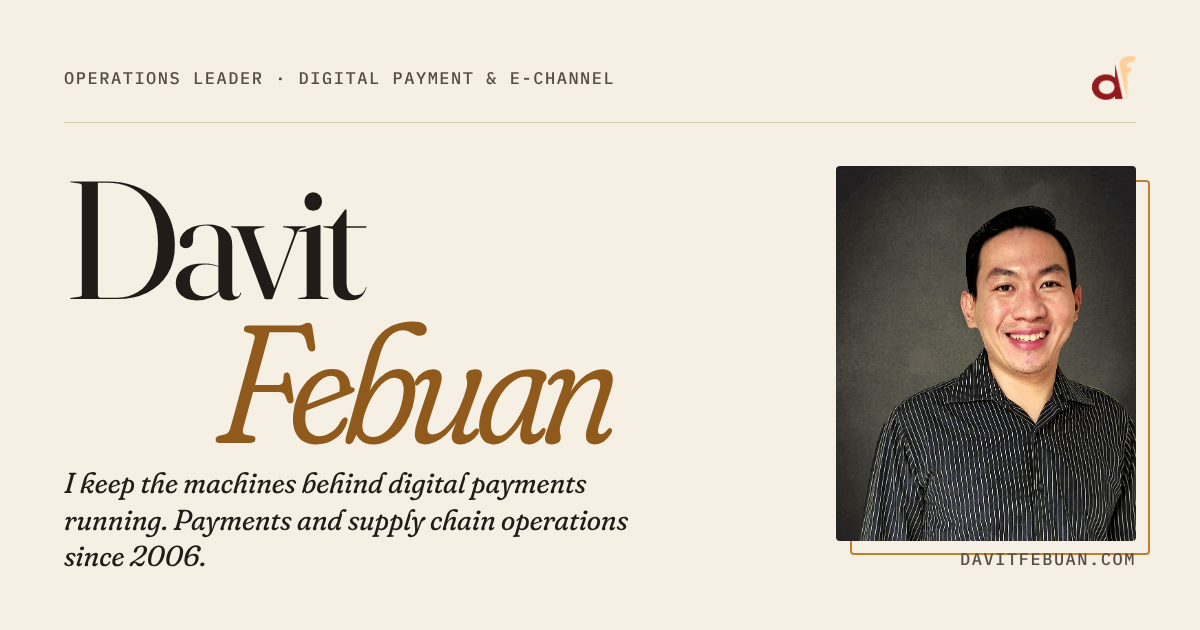
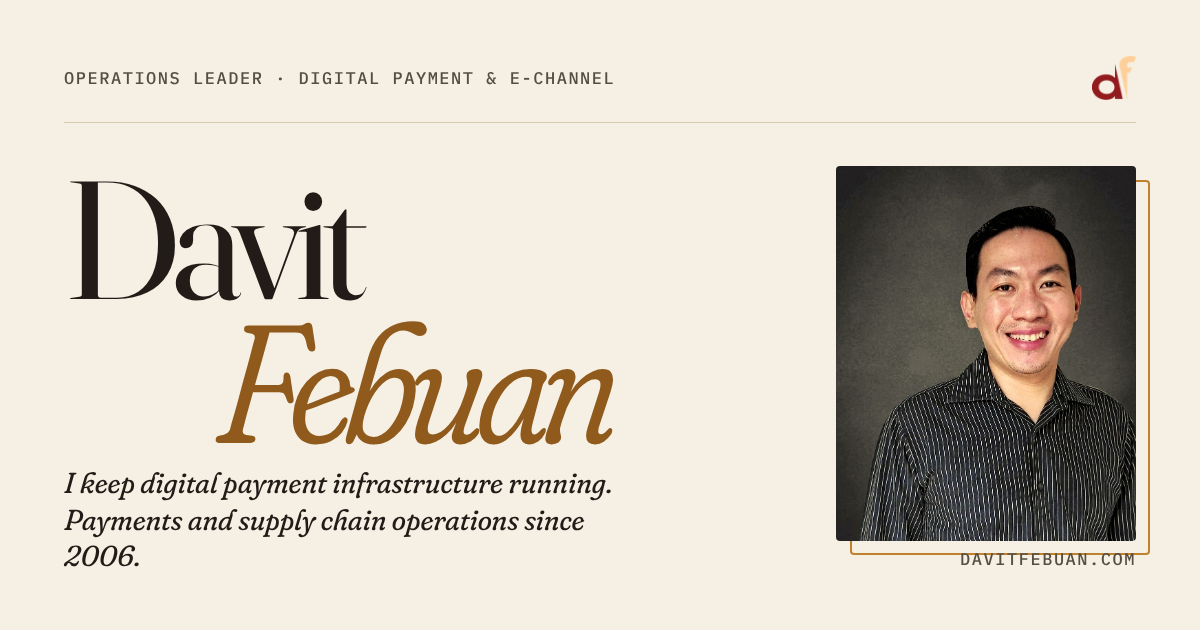
Say infrastructure instead of machines, keep only the availability figure
- Hero, meta, OG and lifecycle heading: "digital payment infrastructure"; ATM and EDC
  named directly where the physical devices are meant
- Remove ATM, EDC, QRIS and vendor counts; show only the >99.8% monthly availability
- Describe the CT Corp businesses by type instead of by brand

Claude-Session: https://claude.ai/code/session_018B2p5vZFr6TjsST7mHvcur

Changed region(s): [[0.0308, 0.754, 0.5242, 0.9048], [0.4317, 0.6635, 0.4625, 0.6937], [0.37, 0.6635, 0.4008, 0.6937]]

diff --git a/src/i18n/content.ts b/src/i18n/content.ts
@@ -2,8 +2,8 @@
 // Fact sources: the original davitfebuan.com, the owner's CV (received 2026-11-24) and the owner's own
 // statements in the build conversation. Ask before adding any other claim (numbers, employers, dates).
 //
-// Current-role figures (impact.now) are gated: `approved: false` hides them in production builds until the
-// owner confirms Bank Mega allows publishing them. They still show in the private artifact and staging.
+// Of the current Bank Mega figures, only the >99.8% monthly availability is public (owner, 2026-11-24).
+// Do not add ATM, EDC, QRIS or vendor counts.
 
 export type Lang = 'en' | 'id';
 
@@ -45,7 +45,7 @@ export const content = {
     meta: {
       title: 'Davit Febuan, Operations Leader in Digital Payment & E-Channel',
       description:
-        'Davit Febuan keeps the machines behind digital payments running at Bank Mega: ATM, EDC and QRIS. In payments and supply chain operations since 2006.',
+        'Davit Febuan keeps digital payment infrastructure running at Bank Mega: ATM, EDC and QRIS. In payments and supply chain operations since 2006.',
     },
     nav: { story: 'Story', lifecycle: 'Lifecycle', journey: 'Journey', expertise: 'Expertise', impact: 'Impact', contact: 'Contact', menu: 'Menu', close: 'Close', switchTo: 'Bahasa Indonesia' },
     a11y: {
@@ -61,7 +61,7 @@ export const content = {
     hero: {
       eyebrow: 'Operations Leader · Digital Payment & E-Channel',
       statement:
-        'I keep the machines behind digital payments running: ATMs, EDC terminals and QRIS merchants, from installation to retrieval.',
+        'I keep digital payment infrastructure running: ATMs, EDC terminals and QRIS merchants, from installation to retrieval.',
       facts: [
         { k: 'Based in', v: 'Jakarta, Indonesia' },
         { k: 'Now', v: 'E-Channel Services Head, Bank Mega' },
@@ -87,7 +87,7 @@ export const content = {
     },
     lifecycle: {
       label: 'Lifecycle',
-      heading: 'The life of a payment machine, and where I learned each stage',
+      heading: 'The lifecycle of payment infrastructure, and where I learned each stage',
       intro: 'Every ATM, EDC terminal and QRIS merchant goes through the same five stages. Select one.',
       nowLabel: 'Today at Bank Mega',
       learnedLabel: 'Where I learned it',
@@ -95,13 +95,13 @@ export const content = {
       stages: [
         { key: 'install', name: 'Install', now: 'Placing ATMs, installing EDC terminals at merchants and onboarding new QRIS merchants.',
           learned: [{ year: '2007', text: 'Installed EDC terminals for Bank Mega merchants' }, { year: '2011', text: 'Delivered and installed equipment at tower sites across Indonesia, including remote areas' }] },
-        { key: 'monitor', name: 'Monitor', now: 'Tracking each machine’s availability against monthly targets and vendor SLAs.',
+        { key: 'monitor', name: 'Monitor', now: 'Tracking the availability of every ATM and EDC terminal against vendor SLAs, held above 99.8% every month.',
           learned: [{ year: '2016', text: 'Set the KPIs and SLAs for logistics performance' }, { year: '2019', text: 'Built Power BI dashboards for distribution performance' }] },
         { key: 'maintain', name: 'Maintain', now: 'Coordinating repairs and preventive maintenance with vendors under SLA, and handling QRIS maintenance requests.',
           learned: [{ year: '2007', text: 'Maintained EDC terminals and resolved disputes and chargebacks' }, { year: '2016', text: 'Wrote the SOPs for after-sales parts service, aligned with ISO 9001' }] },
-        { key: 'resupply', name: 'Resupply', now: 'Keeping machines stocked with what they consume: paper rolls, stickers, UPS units and cash cassettes.',
+        { key: 'resupply', name: 'Resupply', now: 'Keeping ATMs and EDC terminals stocked with what they use: paper rolls, stickers, UPS units and cash cassettes.',
           learned: [{ year: '2013', text: 'Ran S&OP and demand planning, keeping inventory within 1% of schedule' }, { year: '2016', text: 'Managed sourcing and purchasing on a $3M+ annual budget' }] },
-        { key: 'retrieve', name: 'Retrieve', now: 'Pulling machines back from the field and closing QRIS merchant accounts.',
+        { key: 'retrieve', name: 'Retrieve', now: 'Pulling ATMs and EDC terminals back from the field and closing QRIS merchant accounts.',
           learned: [{ year: '2019', text: 'Coordinated 3PL and courier partners nationwide' }, { year: '2020', text: 'Set up reverse logistics, returns and refunds for new digital businesses' }] },
       ] as Stage[],
     },
@@ -116,7 +116,7 @@ export const content = {
         { date: '2013 – 2016', short: '2013', role: 'PPIC Supervisor', company: 'PT Graha Sumber Prima Elektronik', body: 'Led monthly S&OP and weekly demand planning, kept inventory within 1% of production schedules, and applied Lean and Six Sigma.', chapter: 'supply' },
         { date: '2016 – 2019', short: '2016', role: 'Logistics Manager', company: 'PT Graha Sumber Prima Elektronik', body: 'Ran manufacturing operations, sourcing and logistics on a $3M+ annual budget. Saved $100K in the first year and cut costs by 5%+ every year after.', chapter: 'supply' },
         { date: '2019 – 2020', short: '2019', role: 'Distribution Manager', company: 'Bhinneka.com', body: 'Ran sourcing, warehousing and delivery for B2G, B2B and e-commerce customers nationwide, routing 200+ deliveries a day and tracking them in Power BI.', chapter: 'supply' },
-        { date: '2020 – 2024', short: '2020', role: 'Head of Operations', company: 'CT Corp Digital', body: 'Set up operations for new digital businesses in the CT Corp ecosystem, including Transmart, Allo Bank, Grab grocery and Female Daily: order-to-delivery flow, reverse logistics, CRM and customer service. Stayed on through launch, then handed each one over.', chapter: 'digital' },
+        { date: '2020 – 2024', short: '2020', role: 'Head of Operations', company: 'CT Corp Digital', body: 'Set up operations for new digital businesses across the CT Corp ecosystem, from retail and grocery delivery to a digital bank and a beauty platform: order-to-delivery flow, reverse logistics, CRM and customer service. Stayed on through launch, then handed each one over.', chapter: 'digital' },
         { date: '2024 – Present', short: '2024', role: 'E-Channel Services Head', company: 'Bank Mega', body: 'Back at Bank Mega to lead ATM, EDC, QRIS and payment gateway services: strategy, vendor agreements, the maintenance budget, policies and the team.', chapter: 'payments' },
       ] as Stop[],
       more: 'Full history on LinkedIn',
@@ -134,25 +134,11 @@ export const content = {
     impact: {
       label: 'Impact',
       heading: 'Results, printed plainly',
-      note: 'Today’s numbers from Bank Mega, and the record from every role before it on the receipt.',
-      noteGated: 'Selected results from every role since 2007. The receipt carries the year each one came from.',
+      note: 'Availability today at Bank Mega, and the record from every role before it on the receipt.',
       now: {
-        approved: false,
         label: 'Today at Bank Mega',
-        featured: { value: '>99.8%', label: 'Machine availability, every month' } as Metric,
-        metrics: [
-          { value: '±500', label: 'ATMs managed' },
-          { value: '±2,000', label: 'EDC terminals managed' },
-          { value: '±2,000', label: 'New QRIS merchants a month' },
-          { value: '±10', label: 'Active vendors' },
-        ] as Metric[],
+        featured: { value: '>99.8%', label: 'Availability, held every month across the e-channel network' } as Metric,
       },
-      highlights: [
-        { value: '800', label: 'EDC terminals rolled out in year one (2007)' },
-        { value: '99%', label: 'On-time delivery to tower sites (2011–13)' },
-        { value: '$100K', label: 'Logistics savings in year one (2016)' },
-        { value: '5%+', label: 'Annual cost reduction (2017–19)' },
-      ] as Metric[],
       receipt: {
         merchant: 'DAVIT FEBUAN',
         sub: 'OPERATIONS · SINCE 2006',
@@ -196,7 +182,7 @@ export const content = {
     meta: {
       title: 'Davit Febuan · Pembayaran Digital & E-Channel',
       description:
-        'Davit Febuan menjaga mesin di balik pembayaran digital Bank Mega tetap berjalan: ATM, EDC, dan QRIS. Di operasional pembayaran dan rantai pasok sejak 2006.',
+        'Davit Febuan menjaga infrastruktur pembayaran digital Bank Mega tetap berjalan: ATM, EDC, dan QRIS. Di operasional pembayaran dan rantai pasok sejak 2006.',
     },
     nav: { story: 'Tentang', lifecycle: 'Siklus', journey: 'Karier', expertise: 'Keahlian', impact: 'Pencapaian', contact: 'Kontak', menu: 'Menu', close: 'Tutup', switchTo: 'English' },
     a11y: {
@@ -212,7 +198,7 @@ export const content = {
     hero: {
       eyebrow: 'Operations Leader · Pembayaran Digital & E-Channel',
       statement:
-        'Saya memastikan mesin di balik pembayaran digital tetap menyala: ATM, terminal EDC, dan merchant QRIS, dari pemasangan sampai penarikan.',
+        'Saya menjaga infrastruktur pembayaran digital tetap berjalan: ATM, terminal EDC, dan merchant QRIS, dari pemasangan hingga penarikan.',
       facts: [
         { k: 'Domisili', v: 'Jakarta, Indonesia' },
         { k: 'Posisi saat ini', v: 'E-Channel Services Head, Bank Mega' },
@@ -238,7 +224,7 @@ export const content = {
     },
     lifecycle: {
       label: 'Siklus',
-      heading: 'Siklus hidup mesin pembayaran, dan di mana saya mempelajari setiap tahapnya',
+      heading: 'Siklus hidup infrastruktur pembayaran, dan di mana saya mempelajari setiap tahapnya',
       intro: 'Setiap ATM, terminal EDC, dan merchant QRIS melewati lima tahap yang sama. Pilih salah satu.',
       nowLabel: 'Sekarang di Bank Mega',
       learnedLabel: 'Tempat saya mempelajarinya',
@@ -246,13 +232,13 @@ export const content = {
       stages: [
         { key: 'install', name: 'Pasang', now: 'Menempatkan ATM, memasang terminal EDC di merchant, dan mendaftarkan merchant QRIS baru.',
           learned: [{ year: '2007', text: 'Memasang terminal EDC untuk merchant Bank Mega' }, { year: '2011', text: 'Mengirim dan memasang perangkat di lokasi tower di seluruh Indonesia, termasuk daerah terpencil' }] },
-        { key: 'monitor', name: 'Pantau', now: 'Memantau availability setiap mesin terhadap target bulanan dan SLA vendor.',
+        { key: 'monitor', name: 'Pantau', now: 'Memantau availability setiap ATM dan EDC terhadap SLA vendor, terjaga di atas 99,8% setiap bulan.',
           learned: [{ year: '2016', text: 'Menyusun KPI dan SLA untuk kinerja logistik' }, { year: '2019', text: 'Membangun dashboard Power BI untuk kinerja distribusi' }] },
         { key: 'maintain', name: 'Rawat', now: 'Mengoordinasikan perbaikan dan perawatan berkala bersama vendor sesuai SLA, serta menangani permintaan maintenance QRIS.',
           learned: [{ year: '2007', text: 'Merawat terminal EDC serta menyelesaikan sengketa dan chargeback' }, { year: '2016', text: 'Menyusun SOP layanan suku cadang purnajual sesuai ISO 9001' }] },
-        { key: 'resupply', name: 'Suplai', now: 'Menjaga pasokan kebutuhan mesin: kertas, stiker, UPS, dan kaset uang.',
+        { key: 'resupply', name: 'Suplai', now: 'Menjaga pasokan kebutuhan ATM dan EDC: kertas, stiker, UPS, dan kaset uang.',
           learned: [{ year: '2013', text: 'Menjalankan S&OP dan perencanaan permintaan, dengan selisih persediaan di bawah 1%' }, { year: '2016', text: 'Mengelola sourcing dan pembelian dengan anggaran lebih dari US$3 juta per tahun' }] },
-        { key: 'retrieve', name: 'Tarik', now: 'Menarik mesin dari lapangan dan menutup akun merchant QRIS.',
+        { key: 'retrieve', name: 'Tarik', now: 'Menarik ATM dan EDC dari lapangan dan menutup akun merchant QRIS.',
           learned: [{ year: '2019', text: 'Mengoordinasikan mitra 3PL dan kurir di seluruh Indonesia' }, { year: '2020', text: 'Menyiapkan reverse logistics, retur, dan refund untuk bisnis digital baru' }] },
       ] as Stage[],
     },
@@ -267,7 +253,7 @@ export const content = {
         { date: '2013 – 2016', short: '2013', role: 'PPIC Supervisor', company: 'PT Graha Sumber Prima Elektronik', body: 'Memimpin S&OP bulanan dan perencanaan permintaan mingguan, menjaga selisih persediaan di bawah 1% dari jadwal produksi, dan menerapkan Lean serta Six Sigma.', chapter: 'supply' },
         { date: '2016 – 2019', short: '2016', role: 'Logistics Manager', company: 'PT Graha Sumber Prima Elektronik', body: 'Menjalankan operasional pabrik, sourcing, dan logistik dengan anggaran lebih dari US$3 juta per tahun. Menghemat US$100 ribu di tahun pertama dan menurunkan biaya lebih dari 5% setiap tahun setelahnya.', chapter: 'supply' },
         { date: '2019 – 2020', short: '2019', role: 'Distribution Manager', company: 'Bhinneka.com', body: 'Menjalankan sourcing, pergudangan, dan pengiriman untuk pelanggan B2G, B2B, dan e-commerce di seluruh Indonesia, mengatur rute 200+ pengiriman per hari dan memantaunya di Power BI.', chapter: 'supply' },
-        { date: '2020 – 2024', short: '2020', role: 'Head of Operations', company: 'CT Corp Digital', body: 'Menyiapkan operasional bisnis-bisnis digital baru di ekosistem CT Corp, antara lain Transmart, Allo Bank, Grab grocery, dan Female Daily: alur pesanan sampai pengiriman, reverse logistics, CRM, dan customer service. Mendampingi sampai berjalan, lalu menyerahterimakan sepenuhnya.', chapter: 'digital' },
+        { date: '2020 – 2024', short: '2020', role: 'Head of Operations', company: 'CT Corp Digital', body: 'Menyiapkan operasional bisnis-bisnis digital baru di ekosistem CT Corp, mulai dari ritel dan grocery delivery hingga bank digital dan platform kecantikan: alur pesanan sampai pengiriman, reverse logistics, CRM, dan customer service. Mendampingi sampai berjalan, lalu menyerahterimakan sepenuhnya.', chapter: 'digital' },
         { date: '2024 – Sekarang', short: '2024', role: 'E-Channel Services Head', company: 'Bank Mega', body: 'Kembali ke Bank Mega untuk memimpin layanan ATM, EDC, QRIS, dan payment gateway: strategi, kontrak vendor, anggaran pemeliharaan, kebijakan, dan tim.', chapter: 'payments' },
       ] as Stop[],
       more: 'Riwayat lengkap di LinkedIn',
@@ -285,25 +271,11 @@ export const content = {
     impact: {
       label: 'Pencapaian',
       heading: 'Hasil kerja, dicetak apa adanya',
-      note: 'Angka terkini dari Bank Mega, dan rekam jejak dari setiap jabatan sebelumnya di struk.',
-      noteGated: 'Sebagian hasil dari setiap jabatan sejak 2007. Struk mencantumkan tahun asal setiap angka.',
+      note: 'Availability saat ini di Bank Mega, dan rekam jejak dari setiap jabatan sebelumnya di struk.',
       now: {
-        approved: false,
         label: 'Sekarang di Bank Mega',
-        featured: { value: '>99,8%', label: 'Availability mesin, setiap bulan' } as Metric,
-        metrics: [
-          { value: '±500', label: 'ATM dikelola' },
-          { value: '±2.000', label: 'Terminal EDC dikelola' },
-          { value: '±2.000', label: 'Merchant QRIS baru per bulan' },
-          { value: '±10', label: 'Vendor aktif' },
-        ] as Metric[],
+        featured: { value: '>99,8%', label: 'Availability, terjaga setiap bulan di seluruh jaringan e-channel' } as Metric,
       },
-      highlights: [
-        { value: '800', label: 'Terminal EDC terpasang di tahun pertama (2007)' },
-        { value: '99%', label: 'Pengiriman tepat waktu ke lokasi tower (2011–13)' },
-        { value: '$100K', label: 'Penghematan logistik di tahun pertama (2016)' },
-        { value: '5%+', label: 'Penurunan biaya per tahun (2017–19)' },
-      ] as Metric[],
       receipt: {
         merchant: 'DAVIT FEBUAN',
         sub: 'OPERASIONAL · SEJAK 2006',

diff --git a/src/styles/global.css b/src/styles/global.css
@@ -464,7 +464,6 @@ body::before {
 .impact-featured { display: grid; gap: 8px; padding: 18px 0 22px; border-top: 1px solid var(--on-dark-line); }
 .impact-featured strong { font-family: var(--font-display); font-weight: 400; font-size: clamp(3rem, 6vw, 4.8rem); line-height: 1; letter-spacing: -0.03em; color: var(--peach); font-variant-numeric: lining-nums; }
 .impact-featured span { color: var(--on-dark-2); }
-.impact-now .impact-list { margin-top: 0; }
 .receipt .item span em { font-style: normal; font-weight: 500; color: #26221d; }
 
 /* ---------- Credentials ---------- */

diff --git a/CLAUDE.md b/CLAUDE.md
@@ -26,8 +26,9 @@ Personal site for Davit Febuan (operations leader, digital payment & e-channel, 
 
 ## Rules
 - Copy lives in `src/i18n/content.ts`. Fact sources: the original site, the owner's CV (received 2026-11-24) and the owner's own statements. Ask before adding any other claim (numbers, employers, dates).
-- Persona (agreed 2026-11-24): the operator who keeps the machines behind digital payments running (ATM, EDC, QRIS), applying supply chain discipline to payment infrastructure. Full-circle story: Bank Mega merchant ops 2007–2011, back as E-Channel Services Head in 2024.
-- Current Bank Mega figures (`impact.now`, `approved: false`) render in the artifact and staging only, never in production, until the owner confirms the bank allows publishing. Keep them out of `public/llms.txt` too.
+- Persona (agreed 2026-11-24): the operator who keeps digital payment infrastructure running (ATM, EDC, QRIS), applying supply chain discipline to it. Avoid "machines behind digital payments" phrasing; say infrastructure, or name ATM/EDC directly. Full-circle story: Bank Mega merchant ops 2007–2011, back as E-Channel Services Head in 2024.
+- Current Bank Mega figures: only the >99.8% monthly availability is public. Never publish ATM, EDC, QRIS or vendor counts (owner, 2026-11-24).
+- CT Corp Digital: describe the businesses by type (retail & grocery delivery, digital bank, beauty platform), not by brand name, on the public site.
 - Positioning is discreet: no "open to work" / "new role" language (owner is currently employed).
 - Motion stays refined: no WebGL, custom cursors or preloaders. Respect `prefers-reduced-motion`.
 - Single light theme by brand choice. Colors only via tokens in `src/styles/global.css`.
